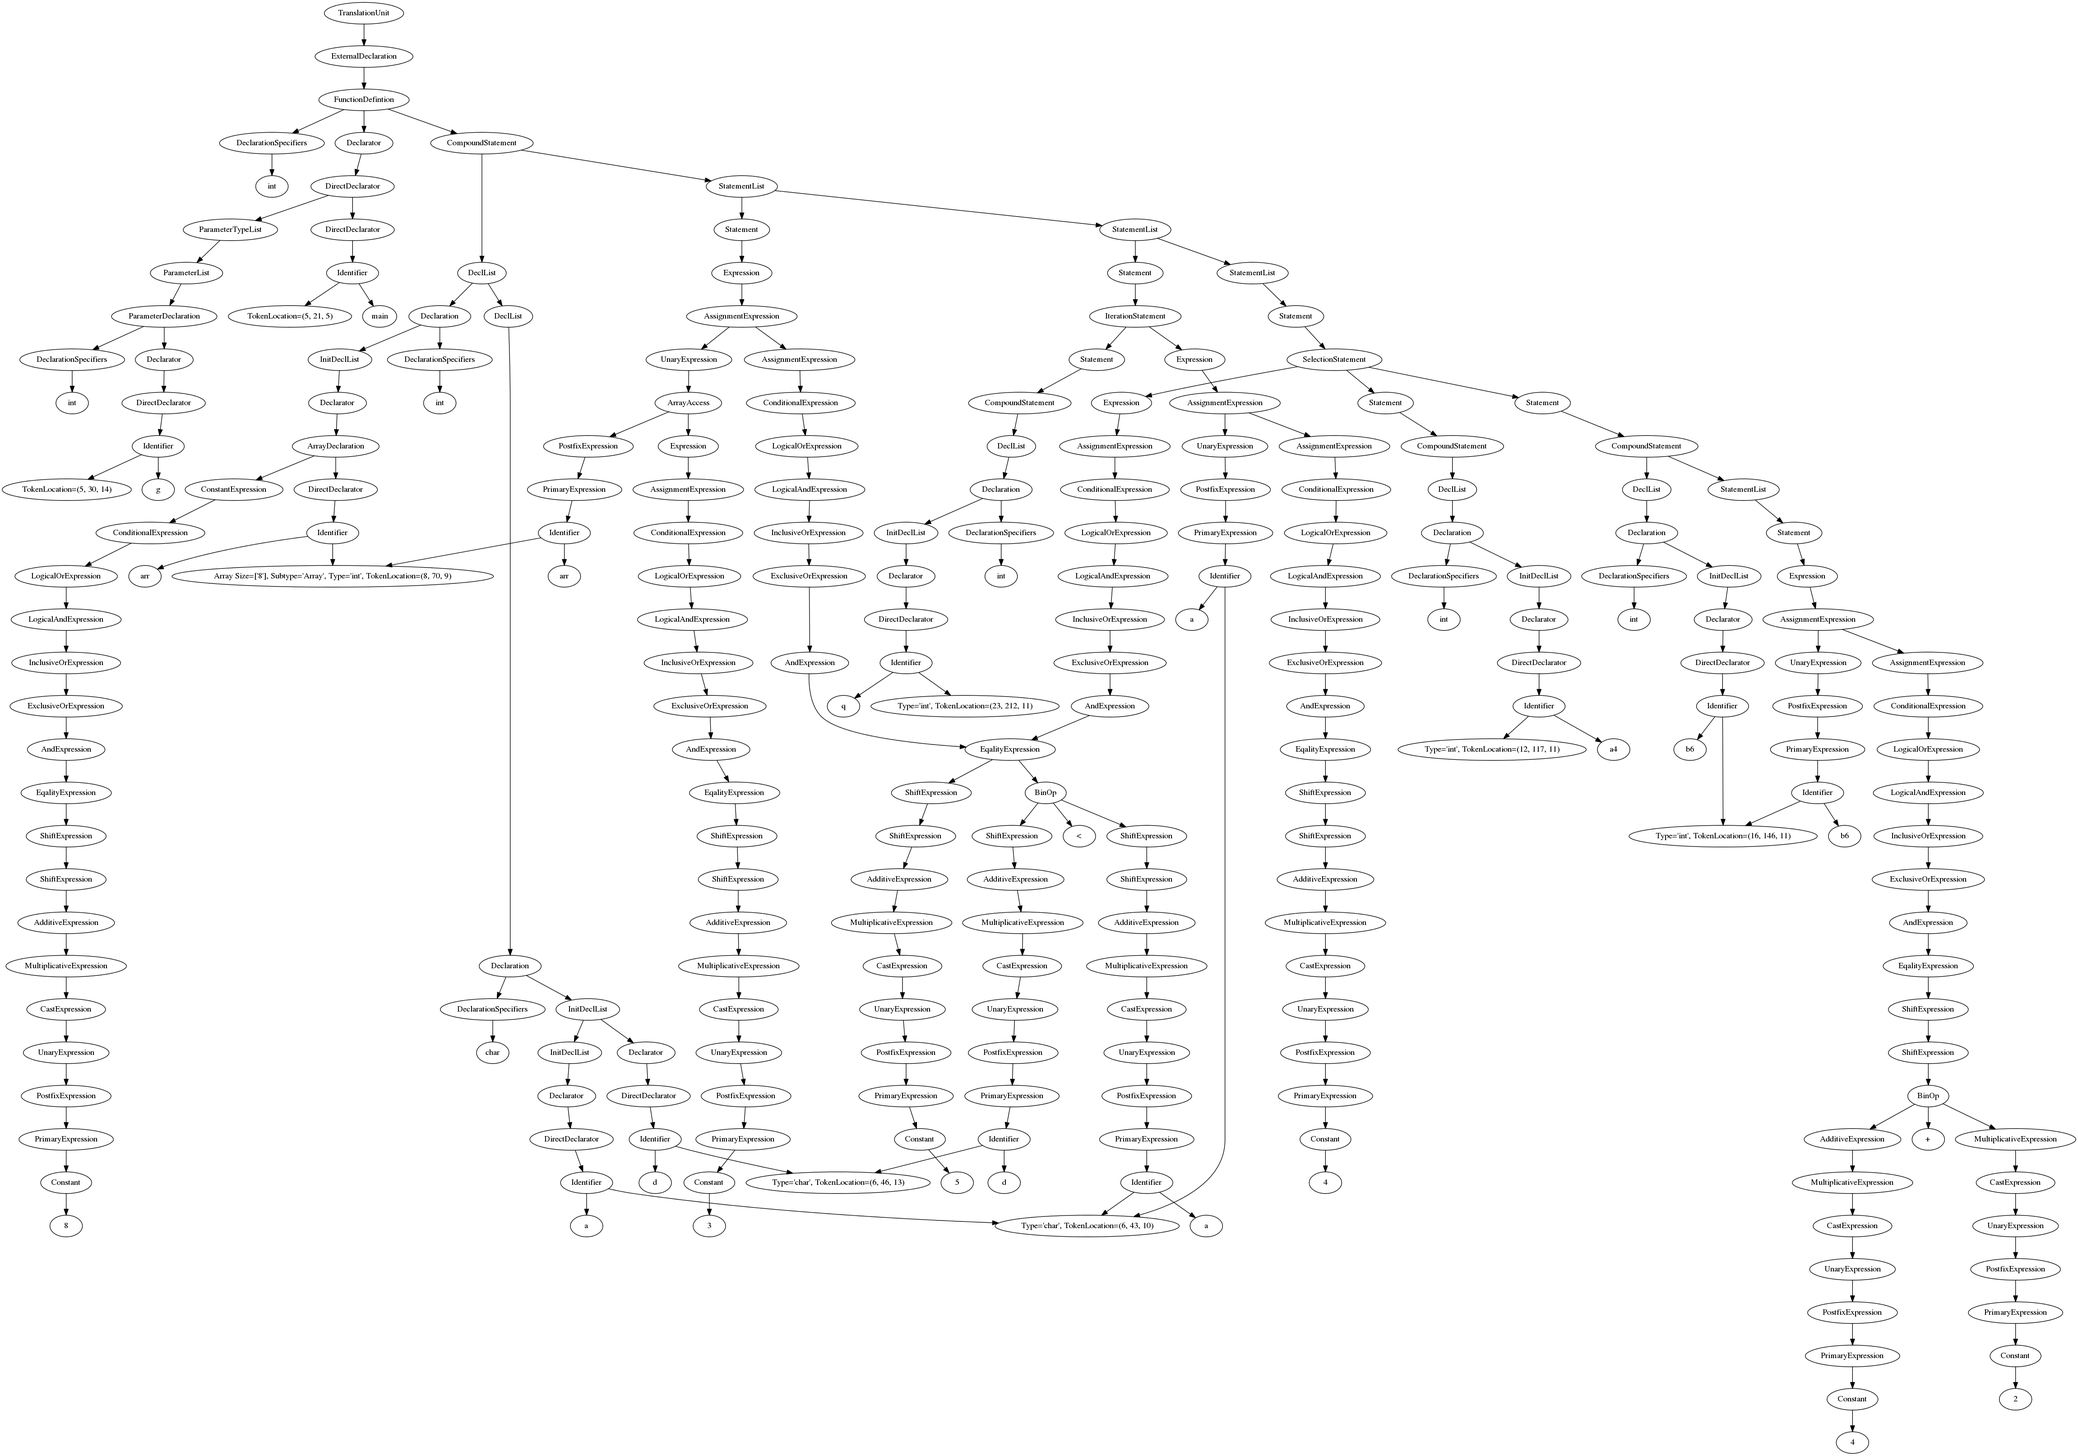
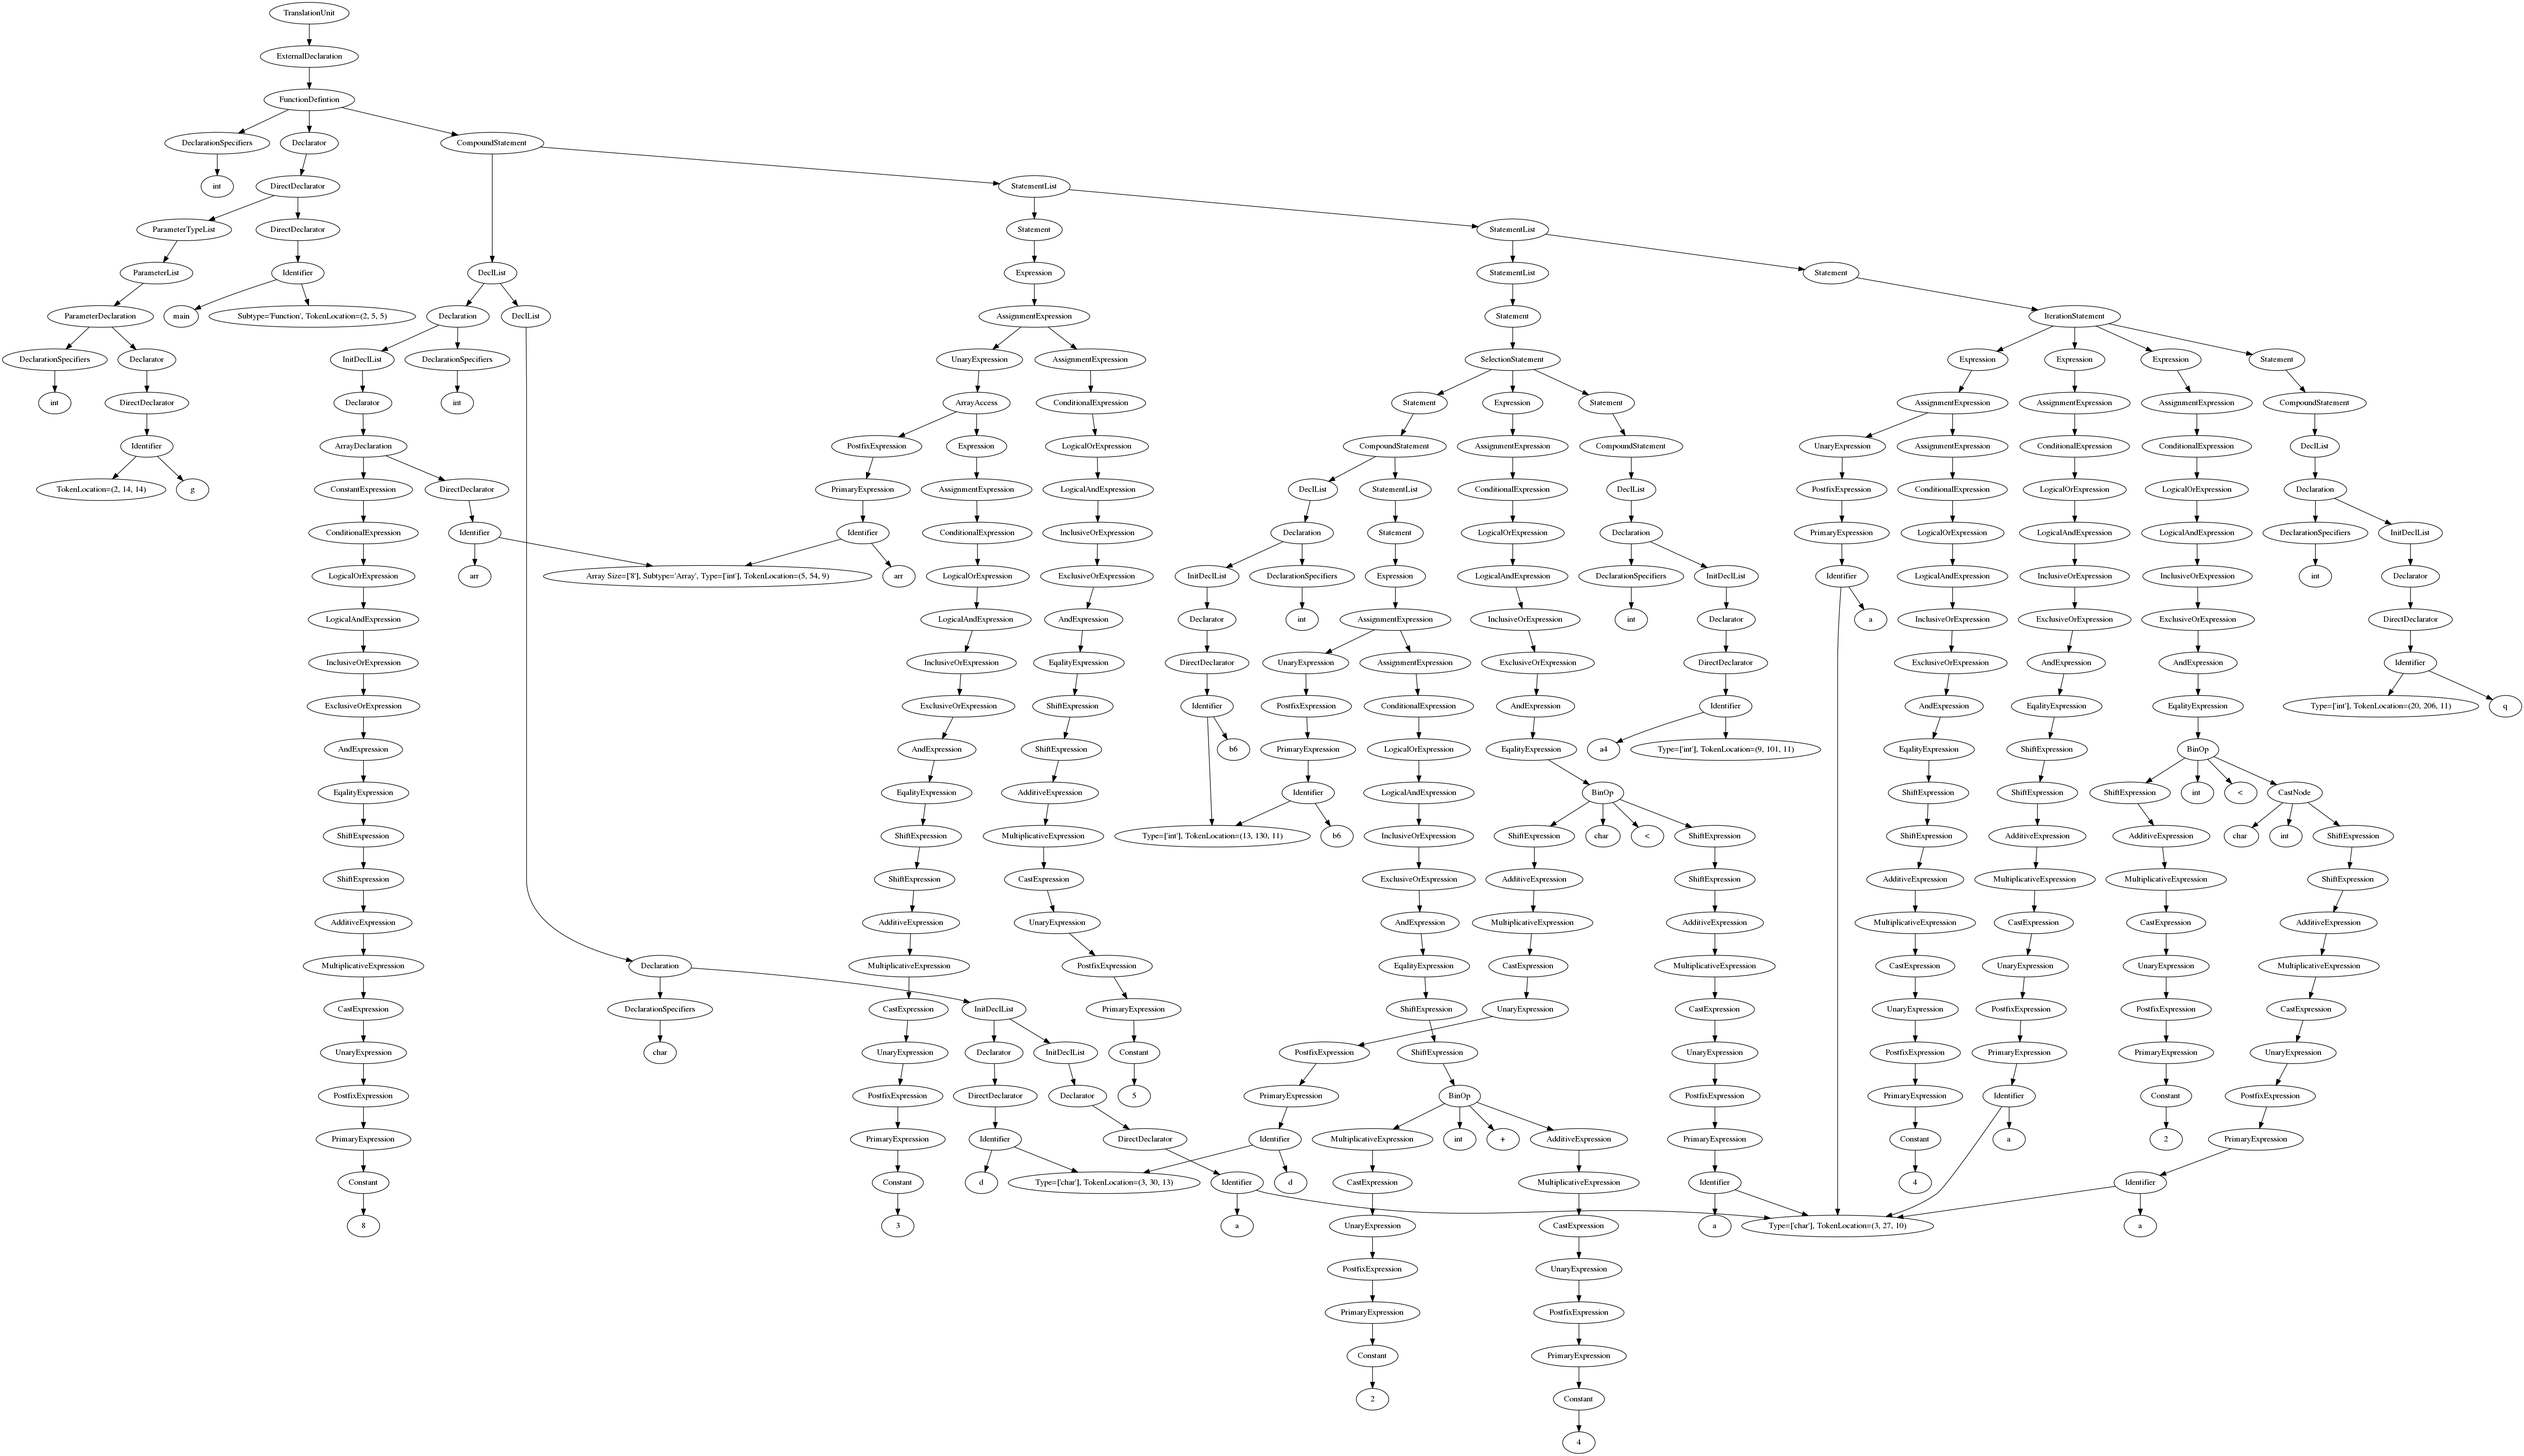
Fixed merge conflicts

diff --git a/Parser/BasicSource.c b/Parser/BasicSource.c
@@ -1,5 +1,5 @@
 
-int main(int g){
+int main(int g, char a5, int c){
     char a, d;
     // $!PDO
     int arr[8];
